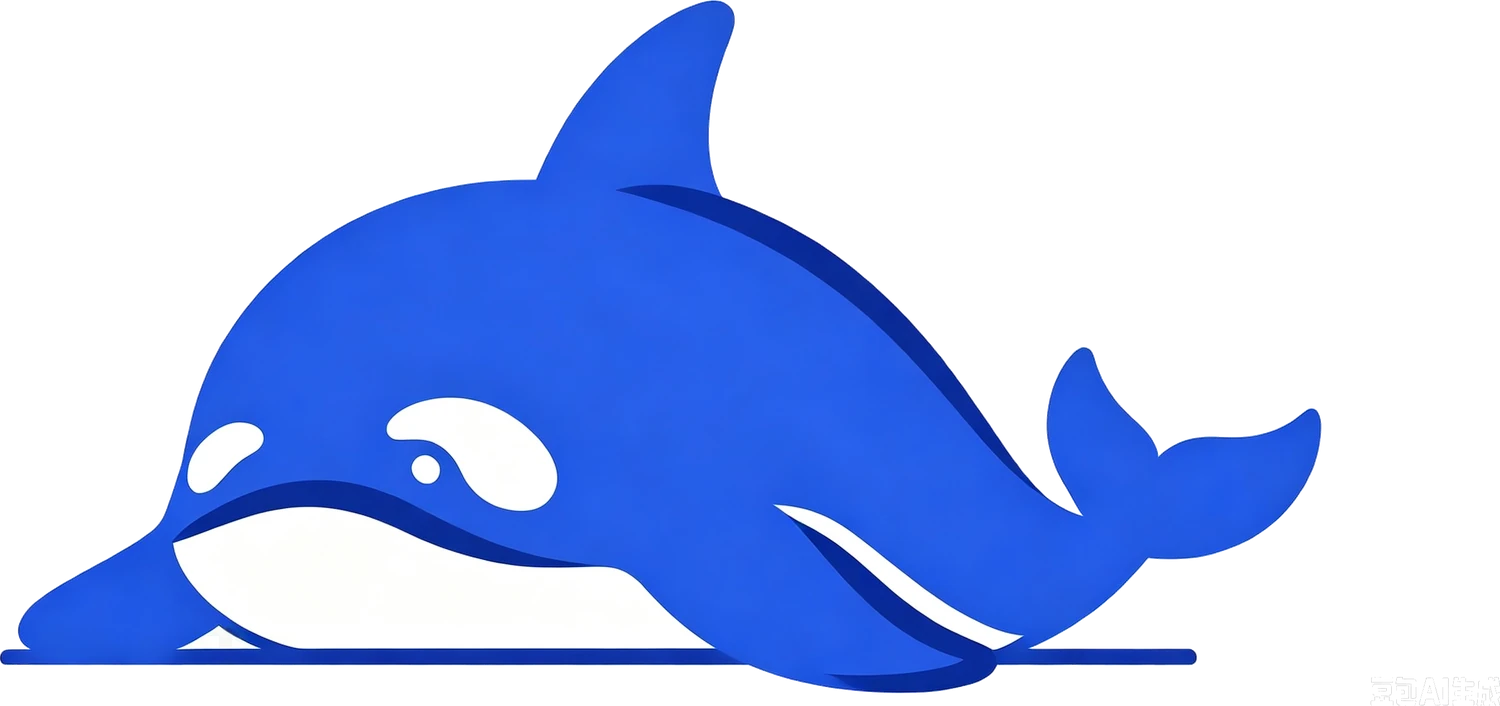
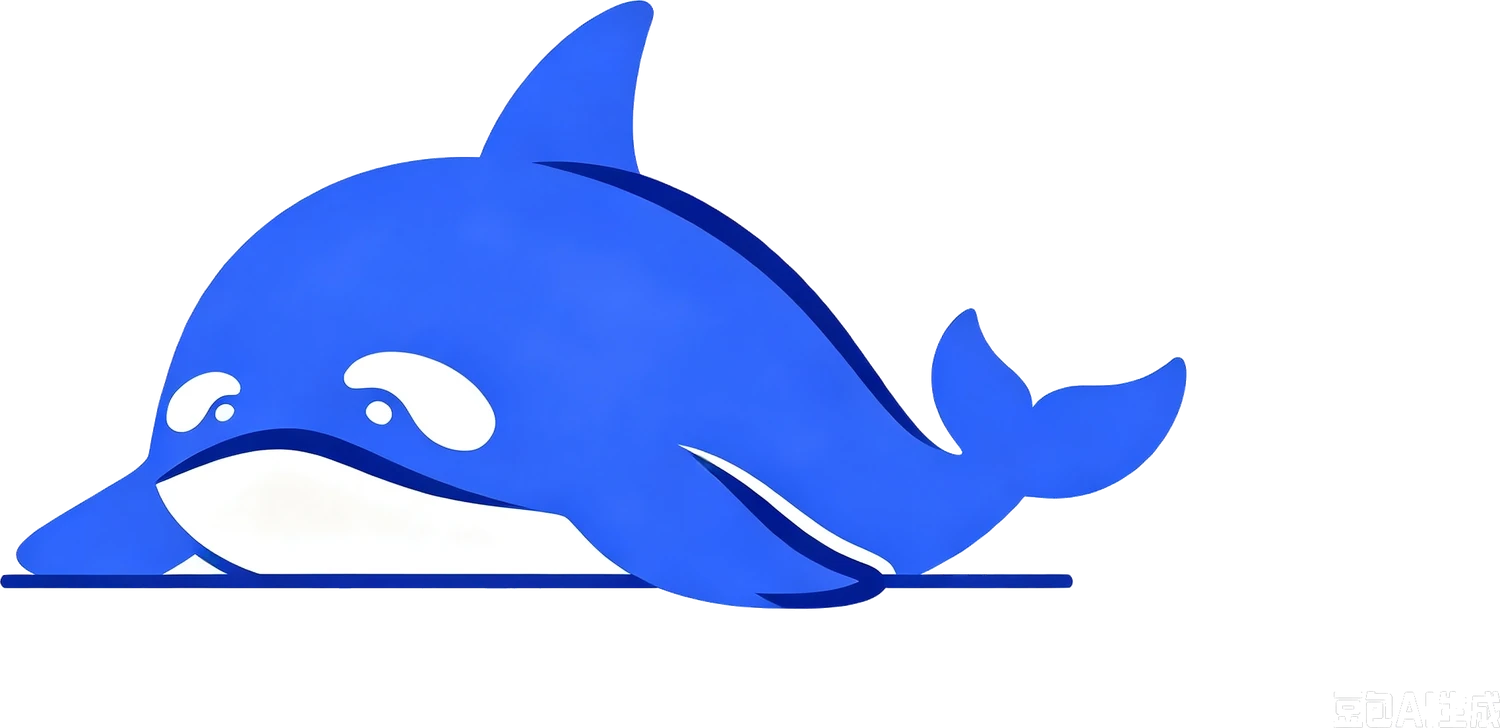
v29: 趴着消失修复(setState顺序反转)+新趴着鲸鱼素材

Changed region(s): [[0.0, 0.0, 0.8893, 0.9972], [0.8893, 0.9972, 1.0, 1.0]]

diff --git a/app/src/main/assets/pet.html b/app/src/main/assets/pet.html
@@ -945,11 +945,10 @@
     }
     const wd = document.getElementById('watchDolphin');
     const wb = document.getElementById('whale');
-    if (wd && wb) {
-      wb.style.display = 'none';
-      wd.style.display = 'block';
-    }
+    // 先隐藏本体鲸鱼（setState会碰海豚，所以顺序：先setState再显示海豚）
+    if (wb) wb.style.display = 'none';
     petEngine.setState('happy');
+    if (wd) wd.style.display = 'block';
     petEngine.showBubble('你去' + appName + '啦~ 我趴着看你！', 1800);
     setTimeout(function () {
       if (wd && wb) { wd.style.display = 'none'; wb.style.display = ''; }
